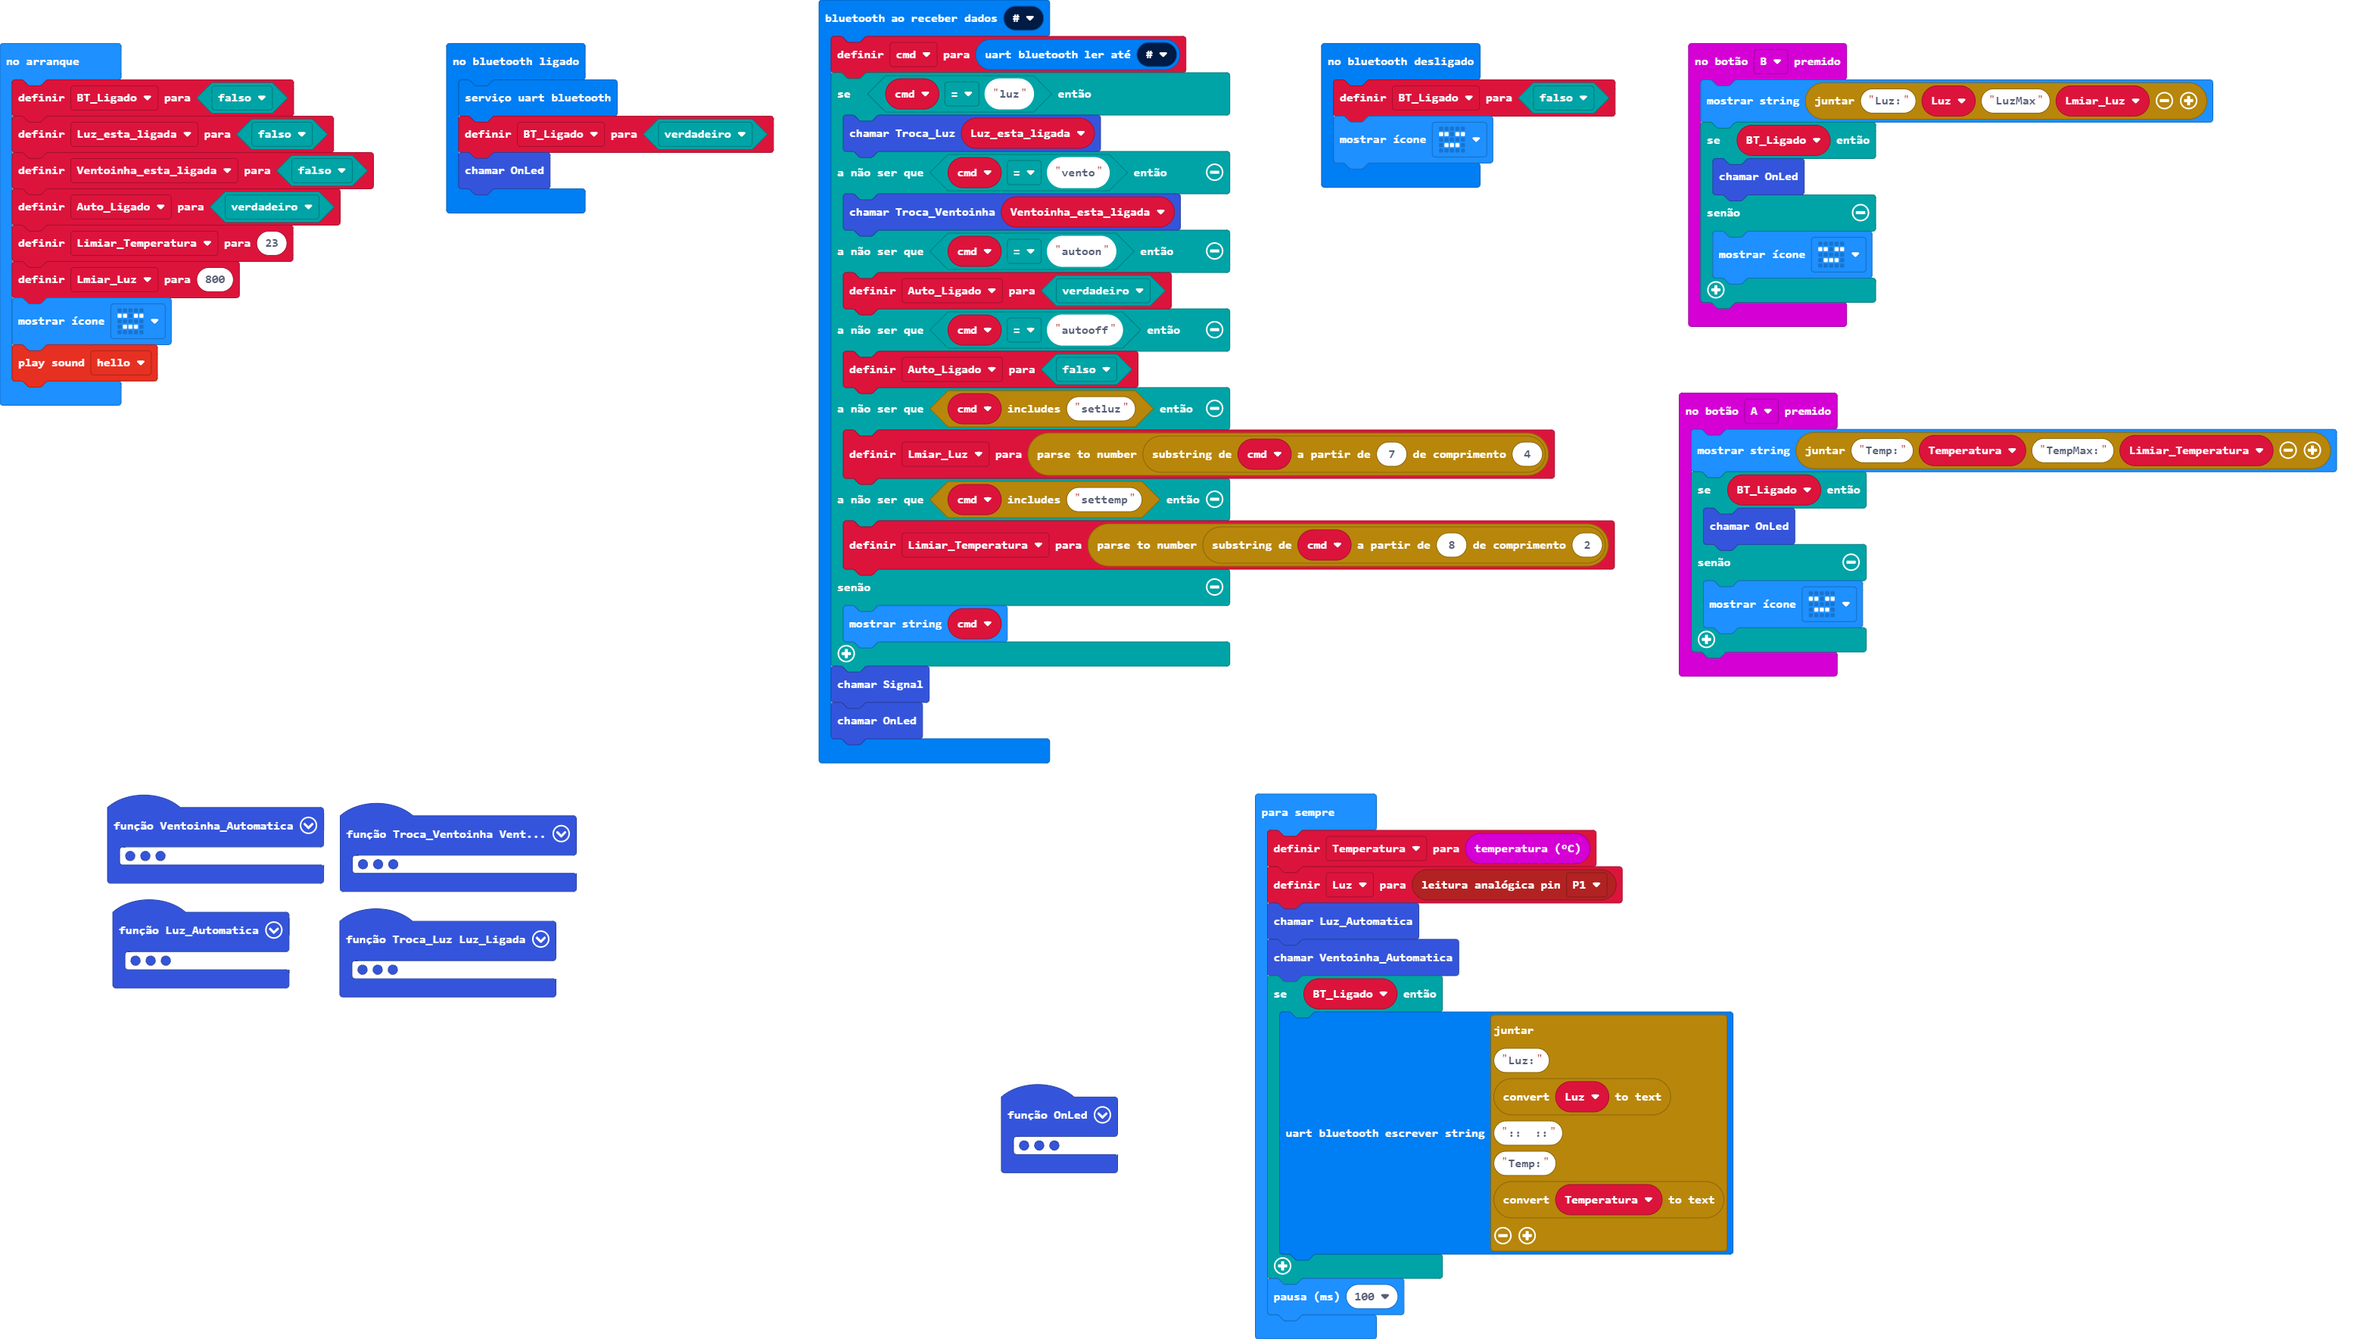
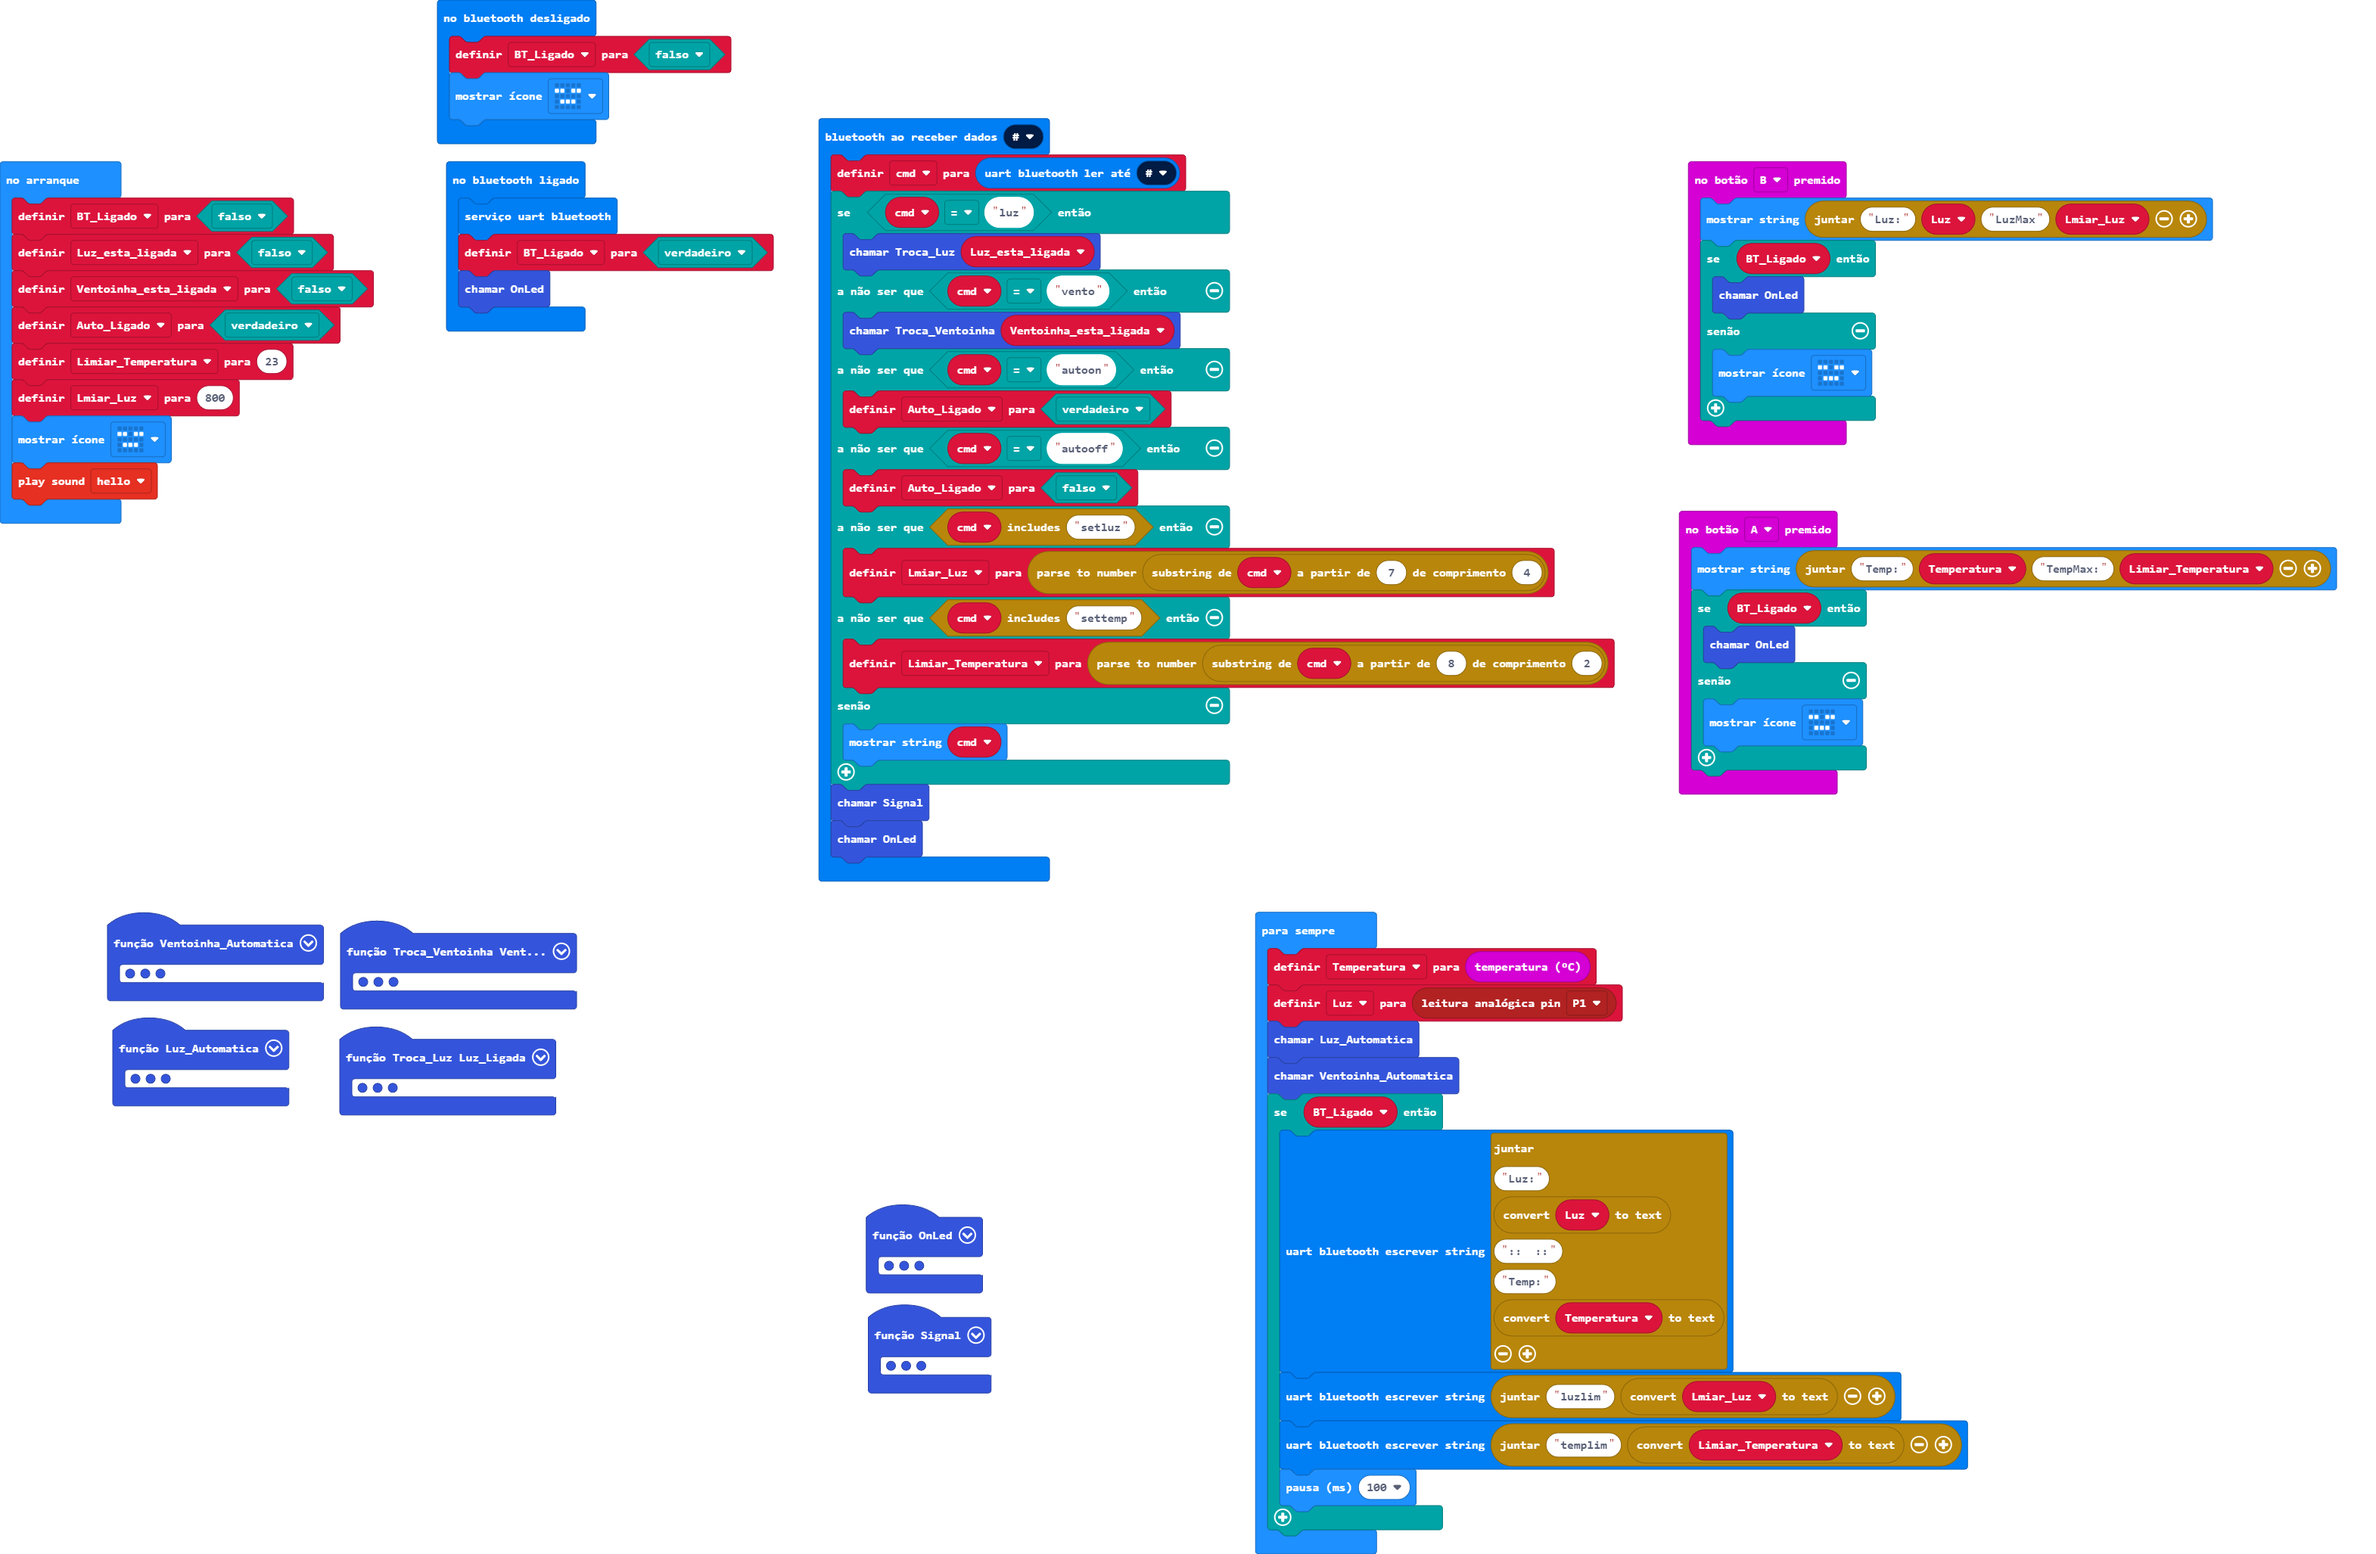
Atualização pxt.json, main.blocks, main.ts

diff --git a/main.ts b/main.ts
@@ -116,6 +116,8 @@ basic.forever(function () {
     Ventoinha_Automatica()
     if (BT_Ligado) {
         bluetooth.uartWriteString("Luz:" + convertToText(Luz) + "::  ::" + "Temp:" + convertToText(Temperatura))
+        bluetooth.uartWriteString("luzlim" + convertToText(Lmiar_Luz))
+        bluetooth.uartWriteString("templim" + convertToText(Limiar_Temperatura))
+        basic.pause(100)
     }
-    basic.pause(100)
 })
